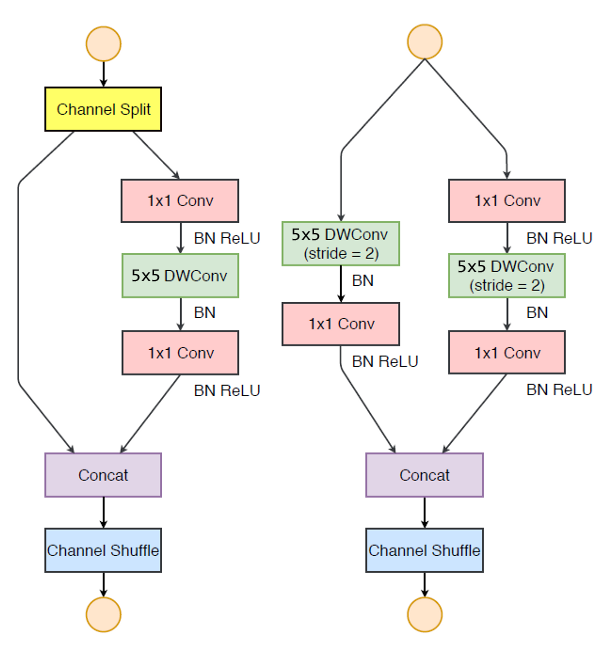
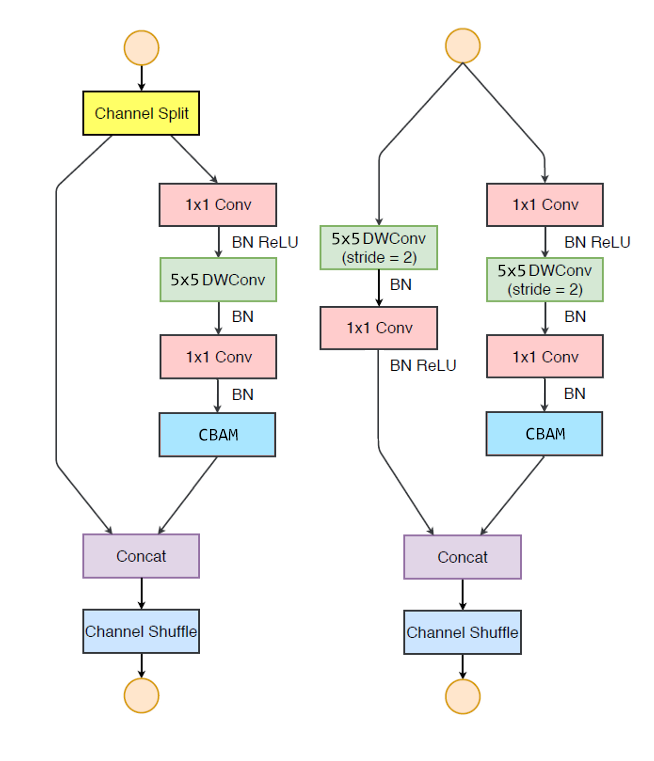
add cbam

diff --git a/tracking/models/model/shuffletrack_copy.py b/tracking/models/model/shuffletrack_copy.py
@@ -148,74 +148,65 @@ class CBAM(nn.Module):
 
 
 class ShuffleV2Block(nn.Module):
-    def __init__(self, inp, oup, ksize, stride, benchmodel):
+    def __init__(self, inp, oup, mid_channels, *, ksize, stride):
         super(ShuffleV2Block, self).__init__()
-        self.benchmodel = benchmodel
         self.stride = stride
         assert stride in [1, 2]
 
+        self.mid_channels = mid_channels
         self.ksize = ksize
         pad = ksize // 2
         self.pad = pad
-        # self.inp = inp
-        oup_inc = oup//2
+        self.inp = inp
 
-        if self.benchmodel == 1:
-            #assert inp == oup_inc
-        	self.banch2 = nn.Sequential(
-                # pw
-                nn.Conv2d(oup_inc, oup_inc, 1, 1, 0, bias=False),
-                nn.BatchNorm2d(oup_inc),
-                nn.ReLU(inplace=True),
-                # dw
-                nn.Conv2d(oup_inc, oup_inc, ksize, stride, pad, groups=oup_inc, bias=False),
-                nn.BatchNorm2d(oup_inc),
-                # pw-linear
-                nn.Conv2d(oup_inc, oup_inc, 1, 1, 0, bias=False),
-                nn.BatchNorm2d(oup_inc),
-                nn.ReLU(inplace=True),
-                CBAM(gate_channels=oup_inc),
-            )                
-        else:                  
-            self.banch1 = nn.Sequential(
+        outputs = oup - inp
+
+        branch_main = [
+            # pw
+            nn.Conv2d(inp, mid_channels, 1, 1, 0, bias=False),
+            nn.BatchNorm2d(mid_channels),
+            nn.ReLU(inplace=True),
+            # dw
+            nn.Conv2d(mid_channels, mid_channels, ksize, stride, pad, groups=mid_channels, bias=False),
+            nn.BatchNorm2d(mid_channels),
+            # pw-linear
+            nn.Conv2d(mid_channels, outputs, 1, 1, 0, bias=False),
+            nn.BatchNorm2d(outputs),
+            nn.ReLU(inplace=True),
+            CBAM(gate_channels=outputs),
+        ]
+        self.branch_main = nn.Sequential(*branch_main)
+
+        if stride == 2:
+            branch_proj = [
                 # dw
                 nn.Conv2d(inp, inp, ksize, stride, pad, groups=inp, bias=False),
                 nn.BatchNorm2d(inp),
                 # pw-linear
-                nn.Conv2d(inp, oup_inc, 1, 1, 0, bias=False),
-                nn.BatchNorm2d(oup_inc),
+                nn.Conv2d(inp, inp, 1, 1, 0, bias=False),
+                nn.BatchNorm2d(inp),
                 nn.ReLU(inplace=True),
-            )        
-    
-            self.banch2 = nn.Sequential(
-                # pw
-                nn.Conv2d(inp, oup_inc, 1, 1, 0, bias=False),
-                nn.BatchNorm2d(oup_inc),
-                nn.ReLU(inplace=True),
-                # dw
-                nn.Conv2d(oup_inc, oup_inc, ksize, stride, pad, groups=oup_inc, bias=False),
-                nn.BatchNorm2d(oup_inc),
-                # pw-linear
-                nn.Conv2d(oup_inc, oup_inc, 1, 1, 0, bias=False),
-                nn.BatchNorm2d(oup_inc),
-                nn.ReLU(inplace=True),
-                CBAM(gate_channels=oup_inc),
-            )
+            ]
+            self.branch_proj = nn.Sequential(*branch_proj)
+        else:
+            self.branch_proj = None
 
-    @staticmethod
-    def _concat(x, out):
-        # concatenate along channel axis
-        return torch.cat((x, out), 1)        
+    def forward(self, old_x):
+        if self.stride==1:
+            x_proj, x = self.channel_shuffle(old_x)
+            return torch.cat((x_proj, self.branch_main(x)), 1)
+        elif self.stride==2:
+            x_proj = old_x
+            x = old_x
+            return torch.cat((self.branch_proj(x_proj), self.branch_main(x)), 1)
 
-    def forward(self, x):
-        if 1==self.benchmodel:
-            x1 = x[:, :(x.shape[1]//2), :, :]
-            x2 = x[:, (x.shape[1]//2):, :, :]
-            out = self._concat(x1, self.banch2(x2))
-        elif 2==self.benchmodel:
-            out = self._concat(self.banch1(x), self.banch2(x))
-
-        return channel_shuffle(out, 2)
+    def channel_shuffle(self, x, g = 2):
+        x = x.reshape(x.shape[0], g, x.shape[1] // g, x.shape[2], x.shape[3])
+        x = x.permute(0, 2, 1, 3, 4)
+        x = x.reshape(x.shape[0], -1, x.shape[3], x.shape[4])
+        x_proj = x[:, :(x.shape[1] // 2), :, :]
+        x = x[:, (x.shape[1] // 2):, :, :]
+        return x_proj, x
 
 
 class ShuffleNetV2(nn.Module):
@@ -257,9 +248,10 @@ class ShuffleNetV2(nn.Module):
         layers = []
         for i in range(num_layers):
             if i == 0:
-                layers.append(ShuffleV2Block(in_channels, out_channels, 5, 2, 2))
+                layers.append(ShuffleV2Block(in_channels, out_channels, mid_channels=out_channels // 2, ksize=5, stride=2))
             else:
-                layers.append(ShuffleV2Block(in_channels, out_channels, 5, 1, 1))
+                layers.append(ShuffleV2Block(in_channels // 2, out_channels,
+                                                    mid_channels=out_channels // 2, ksize=5, stride=1))
             in_channels = out_channels
         return nn.Sequential(*layers)
 

diff --git a/tracking/train.py b/tracking/train.py
@@ -28,8 +28,10 @@ CFG = cfg_shufflev2
 
 
 def train(model, train_loader):
-    optimizer = optim.SGD(model.parameters(), lr=0.001, momentum=0.9, weight_decay=5e-4)
+    # optimizer = optim.SGD(model.parameters(), lr=0.001, momentum=0.9, weight_decay=5e-4)
+    optimizer = optim.Adam(model.parameters(), lr=0.001, weight_decay=5e-4)
     criterion = MultiBoxLoss(2, 0.35, True, 0, True, 5, 0.35, False)
+
     for epoch in range(1, CFG['epoch']+1):
         tqdm_train = tqdm(train_loader)
         for img, target in tqdm_train:
@@ -41,7 +43,10 @@ def train(model, train_loader):
                 priors = priorbox.forward()
                 priors = priors.cuda()
             loss_l, loss_c, loss_id = criterion(outputs, priors, target)
-            loss = loss_l + loss_c + loss_id
+            if epoch > 20:
+                loss = loss_l + loss_c + loss_id
+            else:
+                loss = loss_l + loss_c
             optimizer.zero_grad()
             loss.backward()
             optimizer.step()

diff --git a/tracking/inference.py b/tracking/inference.py
@@ -18,15 +18,15 @@ from utils.prior_box import PriorBox
 
 
 parser = argparse.ArgumentParser()
-parser.add_argument('--trained_model', default='epoch_26_loss_0.32541725039482117.pth',
+parser.add_argument('--trained_model', default='epoch_30_loss_0.7766364812850952.pth',
                     type=str, help='Trained state_dict file path to open')
 parser.add_argument('--confidence_threshold', default=0.1,
                     type=float, help='confidence_threshold')
-parser.add_argument('--nms_threshold', default=0.3,
+parser.add_argument('--nms_threshold', default=0.2,
                     type=float, help='nms_threshold')
 parser.add_argument('--vis_thres', default=0.1, type=float,
                     help='visualization_threshold')
-parser.add_argument('--image', default='images/000001.jpg',
+parser.add_argument('--image', default='images/000024.jpg',
                     help='test image path')
 parser.add_argument('--save_path',
                     default='images/result_img_01.jpg',

diff --git a/tracking/utils/multibox_loss.py b/tracking/utils/multibox_loss.py
@@ -1,8 +1,10 @@
-import copy
 import sys
 sys.path.append('./')
 
 import torch
+
+import copy
+
 import numpy as np
 import torch.nn as nn
 import torch.nn.functional as F
@@ -48,7 +50,7 @@ class MultiBoxLoss(nn.Module):
         self.variance = [0.1, 0.2]
         self.is_cuda = is_cuda
         self.idLoss = nn.CrossEntropyLoss(ignore_index=-1,reduction='sum')
-
+        
     def forward(self, predictions, priors, targets):
         """Multibox Loss
         Args:
@@ -57,7 +59,9 @@ class MultiBoxLoss(nn.Module):
             targets (tensor): Ground truth boxes and labels for a batch,
             shape: [batch_size,num_objs,5] (batch_index,classification,xc,yc,w,h,ids).
         """
+
         loc_data, conf_data, classifier_data = predictions
+        #print('&&&',loc_data.shape,classifier_data.shape)
         priors = priors
         num = loc_data.size(0)
         num_priors = (priors.size(0))

diff --git a/tracking/config/config.py b/tracking/config/config.py
@@ -49,7 +49,8 @@ cfg_shuffle = {
 
 cfg_shufflev2 = {
     'name': 'ShuffleNetV2',
-    'min_sizes': [[32, 8], [64, 16], [128, 32], [512, 128]],
+    'min_sizes': [[24, 8], [48, 16], [96, 32], [384, 128]],
+    # 'min_sizes': [[16, 32], [64, 128], [256, 512]],
     'anchorNum_per_stage': 2,
     'steps': [8, 16, 32],
     'variance': [0.1, 0.2],

diff --git a/README.md b/README.md
@@ -11,8 +11,13 @@ The first lightweight architecture that come to mind is shufflenet. It's every c
 | Two 3x3 depth-wise conv with 32 channels                     | Single 5x5 depth-wise conv with 32 channels              |
 | $(3\times3\times32+32\times32)\times2=2624$                  | $5\times5\times32+32\times32=1824$                       |
 
-<img src="images/5x5_unit.png" alt="5x5_unit" style="zoom:50%" />
+<img src="images/5x5_unit.png" alt="5x5_unit" style="zoom:60%" />
+
 The two basic unit of shufflenet after modification.
+
+The detail of CBAM module is as following.
+
+<img src="images/fig1.jpg" alt="fig1" style="zoom:50%;" />
 
 Comparing with original architecture with modified architecture.
 
@@ -52,7 +57,7 @@ The total track ID of MOT17 dataset is 547, therefore the last full content laye
 | Architecture      | Resolution | Parameters (M) | MAC (G) |
 | ----------------- | ---------- | -------------- | ------- |
 | RetinaTrack       | 640x640    | 32.67          | 140.16  |
-| ShuffleTrack(our) | 640x640    | 3.27           | 29.54   |
+| ShuffleTrack(our) | 640x640    | 3.32           | 29.53   |
 
 
 
